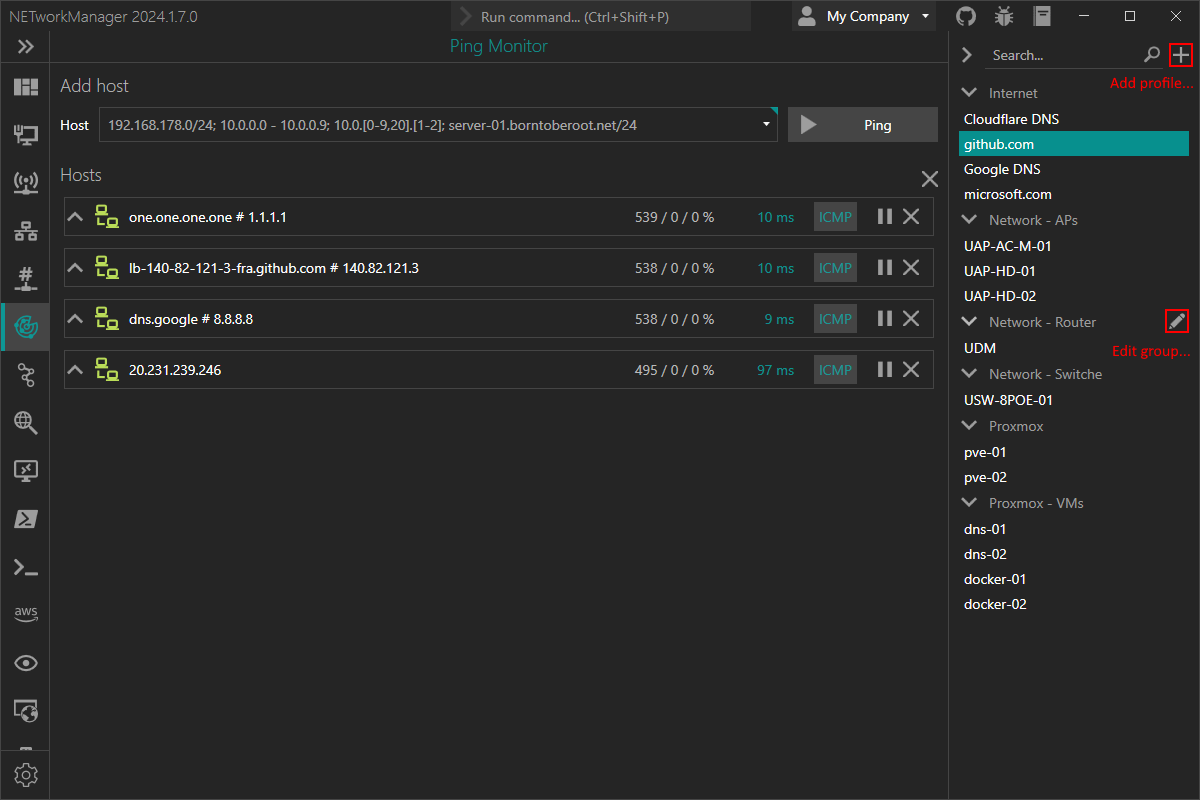
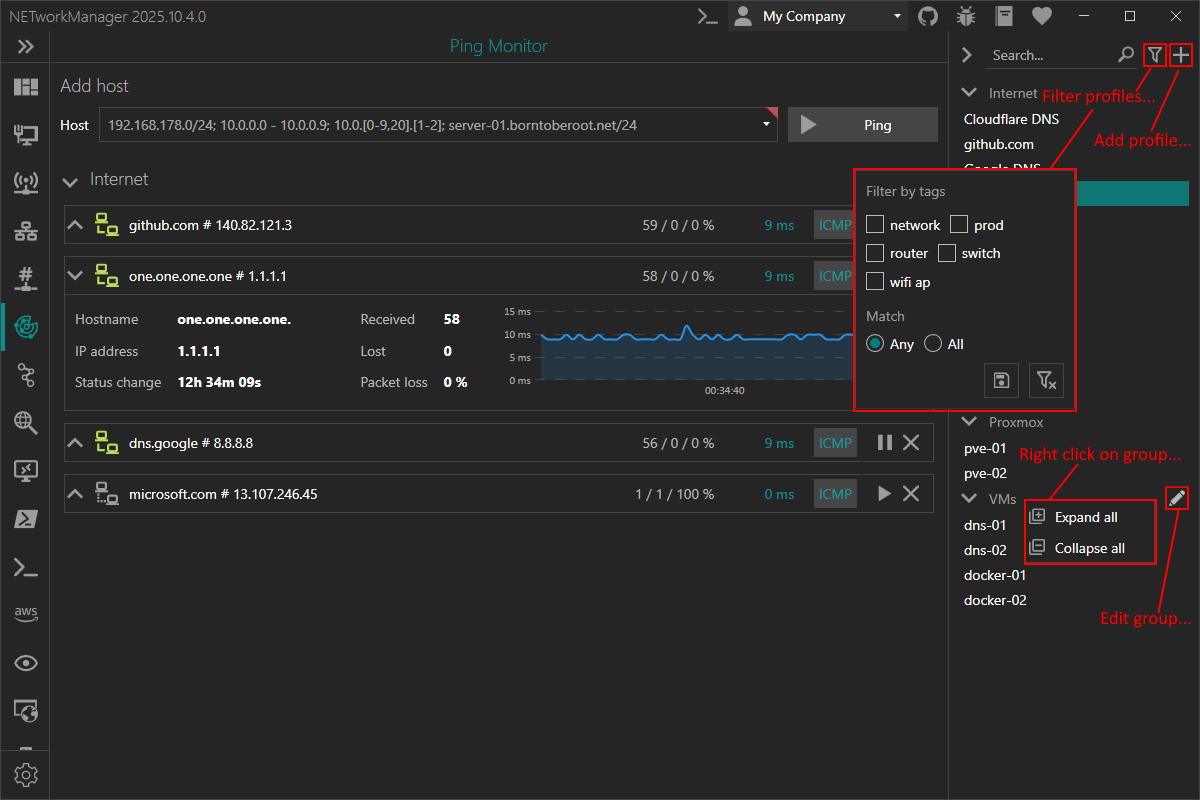
Docs: Update screenshots & profile docs (#3187)
* Docs: Update screenshots

* Update profiles--overview-feature.png

* Fix: Filter was reset on refresh

* Docs: #3187

diff --git a/Source/NETworkManager/ViewModels/ProfilesViewModel.cs b/Source/NETworkManager/ViewModels/ProfilesViewModel.cs
@@ -25,7 +25,7 @@ public class ProfilesViewModel : ViewModelBase, IProfileManager
             ListSortDirection.Ascending));
 
         SetGroupsView();
-        
+
         ProfileManager.OnProfilesUpdated += ProfileManager_OnProfilesUpdated;
 
         _searchDispatcherTimer.Interval = GlobalStaticConfiguration.SearchDispatcherTimerTimeSpan;
@@ -35,7 +35,7 @@ public class ProfilesViewModel : ViewModelBase, IProfileManager
     #endregion
 
     #region Variables
-    
+
     private readonly DispatcherTimer _searchDispatcherTimer = new();
     private bool _searchDisabled;
 
@@ -56,6 +56,8 @@ public class ProfilesViewModel : ViewModelBase, IProfileManager
         }
     }
 
+    private bool _disableProfileRefresh;
+    
     private ProfileInfo _lastSelectedProfileOnRefresh;
 
     private GroupInfo _selectedGroup = new();
@@ -70,21 +72,22 @@ public class ProfilesViewModel : ViewModelBase, IProfileManager
 
             _selectedGroup = value;
 
-            // NullReferenceException occurs if profile file is changed            
-            if (value != null)
+            // Check for null, because a NullReferenceException can occur when a profile file is changed
+            // Temporarily disable profile refresh to avoid multiple refreshes and prevent the filter from being reset.
+            if (value != null && !_disableProfileRefresh)
             {
                 // Set/update tags based on current group
                 CreateTags();
-                
+
                 var filter = new ProfileFilterInfo
                 {
                     Search = Search,
                     Tags = [.. ProfileFilterTags.Where(x => x.IsSelected).Select(x => x.Name)],
                     TagsFilterMatch = ProfileFilterTagsMatchAny ? ProfileFilterTagsMatch.Any : ProfileFilterTagsMatch.All
                 };
-                
-                SetProfilesView(filter ,value, _lastSelectedProfileOnRefresh);
-                
+
+                SetProfilesView(filter, value, _lastSelectedProfileOnRefresh);
+
                 IsProfileFilterSet = !string.IsNullOrEmpty(filter.Search) || filter.Tags.Any();
             }
             else
@@ -95,7 +98,7 @@ public class ProfilesViewModel : ViewModelBase, IProfileManager
             OnPropertyChanged();
         }
     }
-    
+
     private ICollectionView _profiles;
 
     public ICollectionView Profiles
@@ -266,7 +269,7 @@ public class ProfilesViewModel : ViewModelBase, IProfileManager
     {
         ProfileDialogManager.ShowDeleteGroupDialog(Application.Current.MainWindow, this, SelectedGroup).ConfigureAwait(false);
     }
-    
+
     public ICommand AddProfileCommand => new RelayCommand(_ => AddProfileAction());
 
     private void AddProfileAction()
@@ -358,14 +361,19 @@ public class ProfilesViewModel : ViewModelBase, IProfileManager
 
     private void SetGroupsView(GroupInfo group = null)
     {
+        _disableProfileRefresh = true;
+        
         Groups = new CollectionViewSource
         {
             Source = ProfileManager.Groups.Where(x => !x.IsDynamic).OrderBy(x => x.Name)
         }.View;
-
-        // Set specific group or first if null
+        
+        // Set to null, so even when the same group is selected, the profiles get refreshed
         SelectedGroup = null;
 
+        _disableProfileRefresh = false;
+
+        // Set specific group or first if null
         if (group != null)
             SelectedGroup = Groups.SourceCollection.Cast<GroupInfo>().FirstOrDefault(x => x.Equals(group)) ??
                             Groups.SourceCollection.Cast<GroupInfo>().MinBy(x => x.Name);
@@ -378,7 +386,7 @@ public class ProfilesViewModel : ViewModelBase, IProfileManager
         // Get all tags from profiles in the selected group
         var tags = ProfileManager.Groups.First(x => x.Name == SelectedGroup.Name).Profiles
             .SelectMany(x => x.TagsCollection).Distinct().ToList();
-      
+
         var tagSet = new HashSet<string>(tags);
 
         for (var i = ProfileFilterTags.Count - 1; i >= 0; i--)
@@ -394,7 +402,7 @@ public class ProfilesViewModel : ViewModelBase, IProfileManager
             ProfileFilterTags.Add(new ProfileFilterTagsInfo(false, tag));
         }
     }
-    
+
     private void SetProfilesView(ProfileFilterInfo filter, GroupInfo group, ProfileInfo profile = null)
     {
         Profiles = new CollectionViewSource

diff --git a/Website/docs/changelog/next-release.md b/Website/docs/changelog/next-release.md
@@ -21,7 +21,7 @@ Release date: **xx.xx.2025**
 
 **Profiles**
 
-- Added the ability to filter profiles by tags using the filter button next to the search field. [#3144](https://github.com/BornToBeRoot/NETworkManager/pull/3144)
+- Added the ability to filter profiles by tags using the filter button next to the search field. [#3144](https://github.com/BornToBeRoot/NETworkManager/pull/3144) [#3187](https://github.com/BornToBeRoot/NETworkManager/pull/3187)
 - Introduced a context menu for profile groups to collapse or expand all groups at once. [#3171](https://github.com/BornToBeRoot/NETworkManager/pull/3171)
 
 ## Improvements
@@ -46,6 +46,7 @@ Release date: **xx.xx.2025**
 
 ## Dependencies, Refactoring & Documentation
 
+- Documentation updated [#3187](https://github.com/BornToBeRoot/NETworkManager/pull/3187)
 - Code cleanup & refactoring
 - Language files updated via [#transifex](https://github.com/BornToBeRoot/NETworkManager/pulls?q=author%3Aapp%2Ftransifex-integration)
 - Dependencies updated via [#dependabot](https://github.com/BornToBeRoot/NETworkManager/pulls?q=author%3Aapp%2Fdependabot)

diff --git a/Website/docs/groups-and-profiles.md b/Website/docs/groups-and-profiles.md
@@ -34,6 +34,8 @@ Right-click on a selected profile to `edit`, `copy` or `delete` it.
 
 You can also use the Hotkeys `F2` (`edit`) or `Del` (`delete`) on a selected profile.
 
+Right-click on a group header to `expand` or `collapse` all groups. The button to edit the group will be shown when hovering over the group header.
+
 :::
 
 ## Group
@@ -49,6 +51,8 @@ In the profile settings you can define general settings and feature specific set
 :::note
 
 Profiles are only displayed in the specific features if they have been enabled via the checkbox. The [`Profiles` tab in the `Settings`](#overview) will show all profiles.
+
+Use `tags` to organize profiles and filter by them. For example, tag profiles as `prod` or `dns` to group related ones. You can filter by `any` or `all` tags.
 
 :::
 
